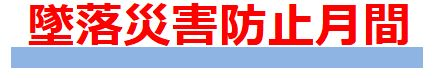
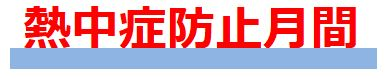
7月度

diff --git a/hiyari/gijutsu.js b/hiyari/gijutsu.js
@@ -1,1 +1,1 @@
-document.write("9")
+document.write("11")

diff --git a/hiyari/gotsu.js b/hiyari/gotsu.js
@@ -1,1 +1,1 @@
-document.write("1")
+document.write("4")

diff --git a/hiyari/izumonk.js b/hiyari/izumonk.js
@@ -1,1 +1,1 @@
-document.write("0")
+document.write("7")

diff --git a/hiyari/yoshigank.js b/hiyari/yoshigank.js
@@ -1,1 +1,1 @@
-document.write("2")
+document.write("4")